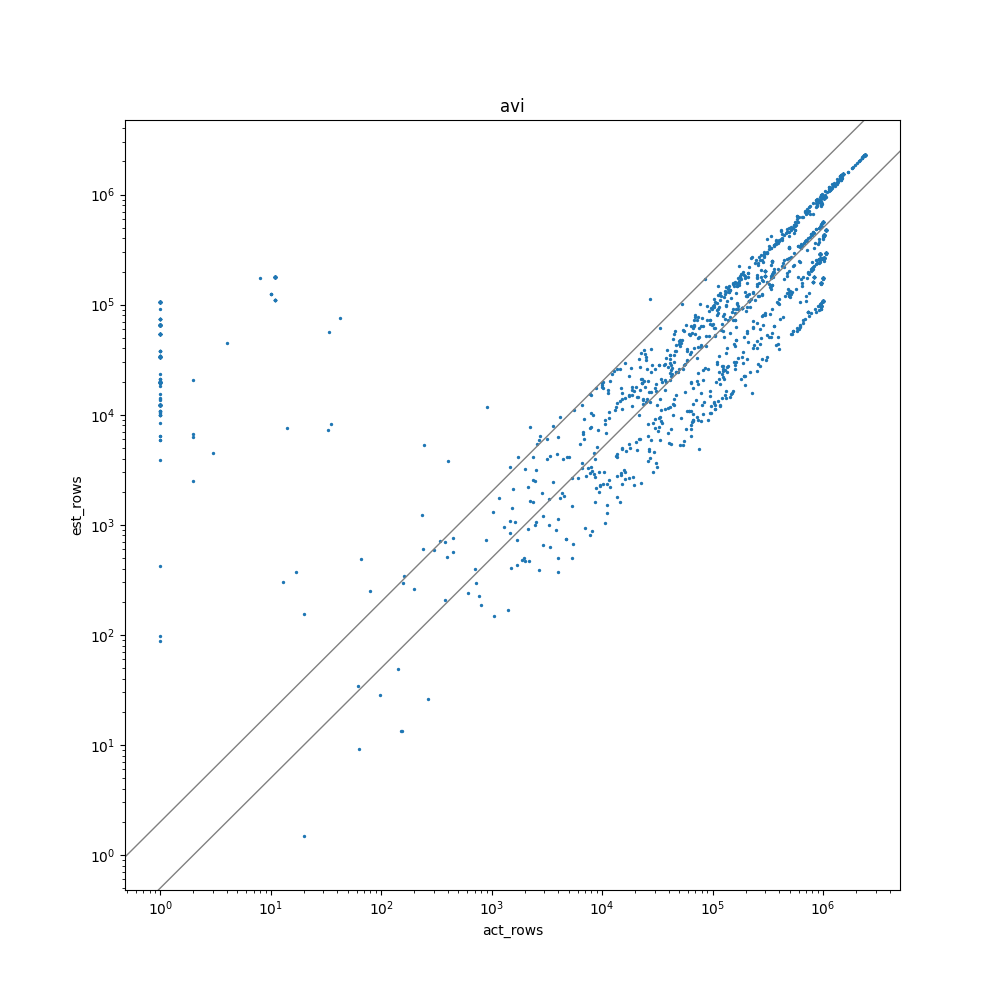
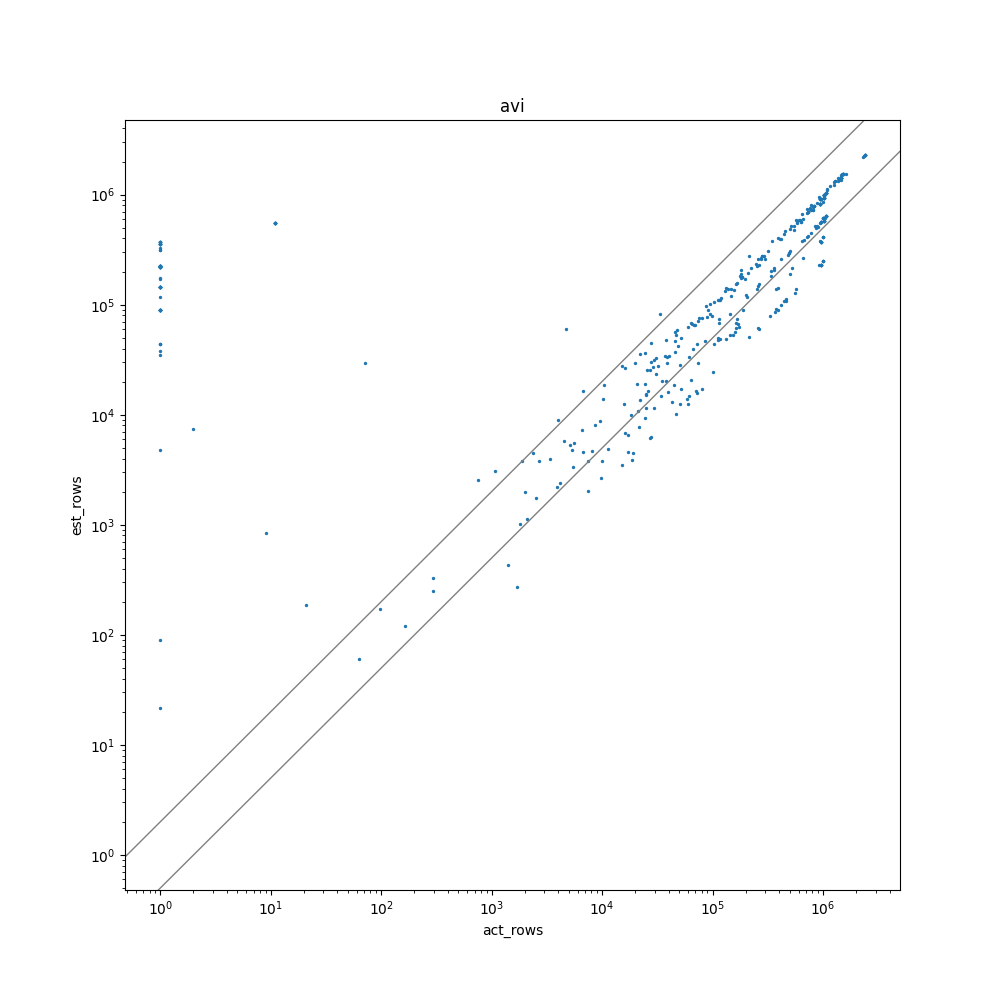
lab1 lw-nn

Changed region(s): [[0.527, 0.186, 0.837, 0.496], [0.837, 0.155, 0.868, 0.186], [0.527, 0.496, 0.558, 0.527]]

diff --git a/lab1/learn_from_query.py b/lab1/learn_from_query.py
@@ -8,6 +8,20 @@ import torch.nn as nn
 import statistics as stats
 import xgboost as xgb
 
+from statistics import AVIEstimator, ExpBackoffEstimator, MinSelEstimator
+
+class Args:
+    def __init__(self, **kwargs):
+        self.bs = 32
+        self.epochs = 1000
+        self.lr = 0.0001
+        self.hid_units = '128_64_32'
+        # self.bins = 200
+        # self.train_num = 10000
+
+        # overwrite parameters from user
+        self.__dict__.update(kwargs)
+
 
 def min_max_normalize(v, min_v, max_v):
     # The function may be useful when dealing with lower/upper bounds of columns.
@@ -20,6 +34,15 @@ def extract_features_from_query(range_query, table_stats, considered_cols):
     #           <-                   range features                    ->, <-     est features     ->
     feature = []
     # YOUR CODE HERE: extract features from query
+    for col in considered_cols:
+        min_val = table_stats.columns[col].min_val()
+        max_val = table_stats.columns[col].max_val()
+        left_val, right_val = range_query.column_range(col, min_val, max_val)
+        feature.append(min_max_normalize(left_val, min_val, max_val))
+        feature.append(min_max_normalize(right_val, min_val, max_val))
+    feature.append(stats.AVIEstimator.estimate(range_query, table_stats))
+    feature.append(stats.ExpBackoffEstimator.estimate(range_query, table_stats))
+    feature.append(stats.MinSelEstimator.estimate(range_query, table_stats))
     return feature
 
 
@@ -33,6 +56,10 @@ def preprocess_queries(queris, table_stats, columns):
         feature, label = None, None
         # YOUR CODE HERE: transform (query, act_rows) to (feature, label)
         # Some functions like rq.ParsedRangeQuery.parse_range_query and extract_features_from_query may be helpful.
+        range_query = rq.ParsedRangeQuery.parse_range_query(query)
+        feature = extract_features_from_query(range_query, table_stats, columns)
+        label = int(act_rows)
+        
         features.append(feature)
         labels.append(label)
     return features, labels
@@ -44,25 +71,121 @@ class QueryDataset(torch.utils.data.Dataset):
         self.query_data = list(zip(*preprocess_queries(queries, table_stats, columns)))
 
     def __getitem__(self, index):
-        return self.query_data[index]
+        # return self.query_data[index]
+        data = torch.FloatTensor(self.query_data[index][0])
+        list = []
+        list.append(self.query_data[index][1])
+        label = torch.Tensor(list)
+        return data, label
 
     def __len__(self):
         return len(self.query_data)
+    
+class LWNNLayer(nn.Module):
+    def __init__(self, input_len, output_len):
+        super().__init__()
+        self.layer = nn.Sequential(
+            nn.Linear(input_len, output_len),
+            nn.ReLU(inplace=True),
+        )
+
+    def forward(self, X):
+        return self.layer(X)
+
+
+class LWNNModel(nn.Module):
+    def __init__(self, input_len, hid_units):
+        super().__init__()
+        self.hid_units = hid_units
+
+        self.hid_layers = nn.Sequential()
+        for l, output_len in enumerate([int(u) for u in hid_units.split('_')]):
+            self.hid_layers.add_module('layer_{}'.format(l), LWNNLayer(input_len, output_len))
+            input_len = output_len
+
+        self.final = nn.Linear(input_len, 1)
+
+    def forward(self, X):
+        mid_out = self.hid_layers(X)
+        pred = self.final(mid_out)
+
+        return pred
+
+    def name(self):
+        return f"lwnn_hid{self.hid_units}"
 
 
 def est_mlp(train_data, test_data, table_stats, columns):
     """
     est_mlp uses MLP to produce estimated rows for train_data and test_data
     """
+    args = Args()
+
     train_dataset = QueryDataset(train_data, table_stats, columns)
-    train_loader = torch.utils.data.DataLoader(train_dataset, batch_size=10, shuffle=True, num_workers=1)
+    train_loader = torch.utils.data.DataLoader(train_dataset, batch_size=args.bs, shuffle=False, num_workers=1)
     train_est_rows, train_act_rows = [], []
     # YOUR CODE HERE: train procedure
+    device = torch.device("cuda:0" if torch.cuda.is_available() else "cpu")
+    feat_num = len(columns) * 2 + 3
+    lw_nn_model = LWNNModel(feat_num, args.hid_units)
+    lw_nn_model.to(device)
+    optimizer = torch.optim.Adam(lw_nn_model.parameters(), lr=args.lr)
+    
+    def loss_fn(predict_rows, actual_rows):
+        est_rows = torch.abs(predict_rows)
+        return torch.mean(torch.square(torch.log2(torch.abs(predict_rows)) - torch.log2(actual_rows)))
+    
+    mse_loss = nn.MSELoss(reduction='none')
+    print(f"Train on train set...")
+    for epoch in range(args.epochs):
+        train_loss = 0.0
+        lw_nn_model.train()
+        for _, data in enumerate(train_loader):
+            inputs, labels = data
+            inputs = inputs.to(device).float()
+            labels = labels.to(device).float()
+
+            optimizer.zero_grad()
+            preds = lw_nn_model(inputs)
+
+            if epoch == args.epochs - 1:
+                train_act_rows += labels.squeeze(1).tolist()
+                train_est_rows += preds.squeeze(1).tolist()
+
+            loss = mse_loss(preds, labels)
+            loss.mean().backward()
+            optimizer.step()
+            train_loss += torch.sum(loss).item()
+        print(f"Epoch {epoch + 1}, loss: {train_loss/len(train_loader)}")
 
     test_dataset = QueryDataset(test_data, table_stats, columns)
-    test_loader = torch.utils.data.DataLoader(test_dataset, batch_size=10, shuffle=True, num_workers=1)
+    test_loader = torch.utils.data.DataLoader(test_dataset, batch_size=args.bs, shuffle=False, num_workers=1)
     test_est_rows, test_act_rows = [], []
     # YOUR CODE HERE: test procedure
+    print(f"Test on test set...")
+
+    test_loss = 0.0
+    lw_nn_model.eval()
+    for _, data in enumerate(test_loader):
+        inputs, labels = data
+        inputs = inputs.to(device).float()
+        labels = labels.to(device).float()
+
+        with torch.no_grad():
+            preds = lw_nn_model(inputs)
+
+            test_act_rows += labels.squeeze(1).tolist()
+            test_est_rows += preds.squeeze(1).tolist()
+
+            loss = mse_loss(preds, labels)
+            test_loss += torch.sum(loss).item()
+
+    print(f'Test loss is {test_loss/len(test_loader):.4f}')
+    
+    # print(len(train_act_rows))
+    # print(len(train_est_rows))
+    # print(len(test_act_rows))
+    # print(len(test_act_rows))
 
     return train_est_rows, train_act_rows, test_est_rows, test_act_rows
 

diff --git a/lab1/evaluation.py b/lab1/evaluation.py
@@ -58,21 +58,21 @@ if __name__ == '__main__':
         est_min_sel.append(stats.MinSelEstimator.estimate(range_query, table_stats) * table_stats.row_count)
         act.append(item['act_rows'])
 
-    est_spn_sample_1000 = est_spn('./data/title_sample_1000.csv', test_data, table_stats)
-    est_spn_sample_10000 = est_spn('./data/title_sample_10000.csv', test_data, table_stats)
-    est_spn_sample_20000 = est_spn('./data/title_sample_20000.csv', test_data, table_stats)
-
     _, _, est_mlp, _ = learn_from_query.est_mlp(train_data, test_data, table_stats, columns)
-    _, _, est_xgb, _ = learn_from_query.est_xgb(train_data, test_data, table_stats, columns)
+    # _, _, est_xgb, _ = learn_from_query.est_xgb(train_data, test_data, table_stats, columns)
+    
+    # est_spn_sample_1000 = est_spn('./data/title_sample_1000.csv', test_data, table_stats)
+    # est_spn_sample_10000 = est_spn('./data/title_sample_10000.csv', test_data, table_stats)
+    # est_spn_sample_20000 = est_spn('./data/title_sample_20000.csv', test_data, table_stats)
 
     gen_report(act, {
         "avi": est_avi,
         "ebo": est_ebo,
         "min_sel": est_min_sel,
-        "spn_sample_1000": est_spn_sample_1000,
-        "spn_sample_10000": est_spn_sample_10000,
-        "spn_sample_20000": est_spn_sample_20000,
+        # "spn_sample_1000": est_spn_sample_1000,
+        # "spn_sample_10000": est_spn_sample_10000,
+        # "spn_sample_20000": est_spn_sample_20000,
         "mlp": est_mlp,
-        "xgb": est_xgb,
+        # "xgb": est_xgb,
     })
 

diff --git a/lab1/statistics.py b/lab1/statistics.py
@@ -292,7 +292,19 @@ class ExpBackoffEstimator:
     @staticmethod
     def estimate(range_query, table_stats):
         # YOUR CODE HERE
-        pass
+        sel = 1.0
+        sel_list = []
+        for col in range_query.column_names():
+            min_val = table_stats.columns[col].min_val()
+            max_val = table_stats.columns[col].max_val()
+            (left, right) = range_query.column_range(col, min_val, max_val)
+            col_cnt = table_stats.columns[col].between_row_count(left+1, right)  # (left, right) -> [left, right)
+            col_sel = col_cnt / table_stats.row_count
+            sel_list.append(col_sel)
+        sorted_sel_list = sel_list.sort(reverse=True)
+        for i in range(min(4, len(range_query.column_names()))):
+            sel *= pow(sel_list[i], 1 / (i+1))
+        return sel
 
 
 class MinSelEstimator:
@@ -302,5 +314,12 @@ class MinSelEstimator:
     @staticmethod
     def estimate(range_query, table_stats):
         # YOUR CODE HERE
-        pass
-
+        sel = 1.0
+        for col in range_query.column_names():
+            min_val = table_stats.columns[col].min_val()
+            max_val = table_stats.columns[col].max_val()
+            (left, right) = range_query.column_range(col, min_val, max_val)
+            col_cnt = table_stats.columns[col].between_row_count(left+1, right)  # (left, right) -> [left, right)
+            col_sel = col_cnt / table_stats.row_count
+            sel = min(sel, col_sel)
+        return sel

diff --git a/lab1/eval/report.md b/lab1/eval/report.md
@@ -1,6 +1,15 @@
 | name | p50 | p80 | p90 | p99 |
 | --- | --- | --- | --- | --- |
-| avi | 3.28 | 9.77 | 19930.38 | 105231.72 |
+| avi | 1.69 | 4.57 | 146177.29 | 368925.47 |
+| ebo | 1.51 | 58.02 | 564098.16 | 704946.27 |
+| min_sel | 1.07 | 12.08 | 904090.00 | 904090.00 |
+| mlp | 1.53 | 32.81 | 84925.74 | 328682.22 |
 
 ![avi](avi.png)
+
+![ebo](ebo.png)
+
+![min_sel](min_sel.png)
+
+![mlp](mlp.png)
 
